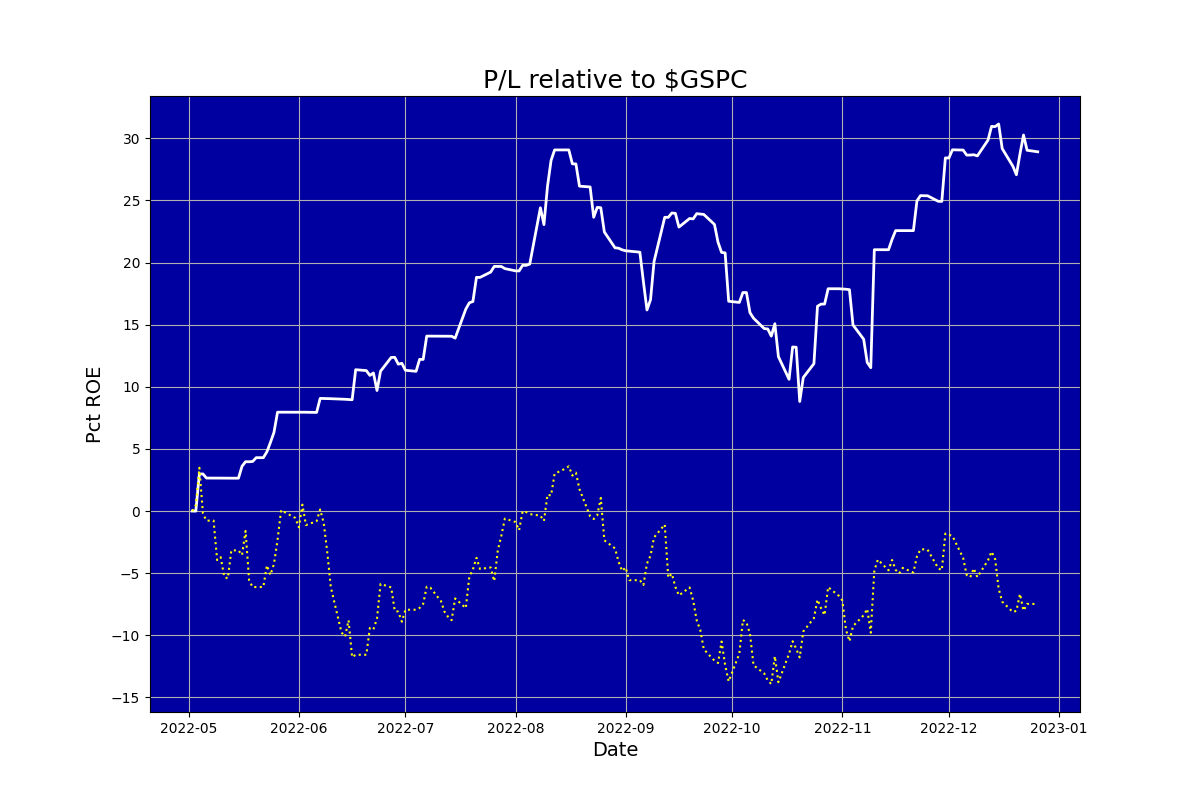
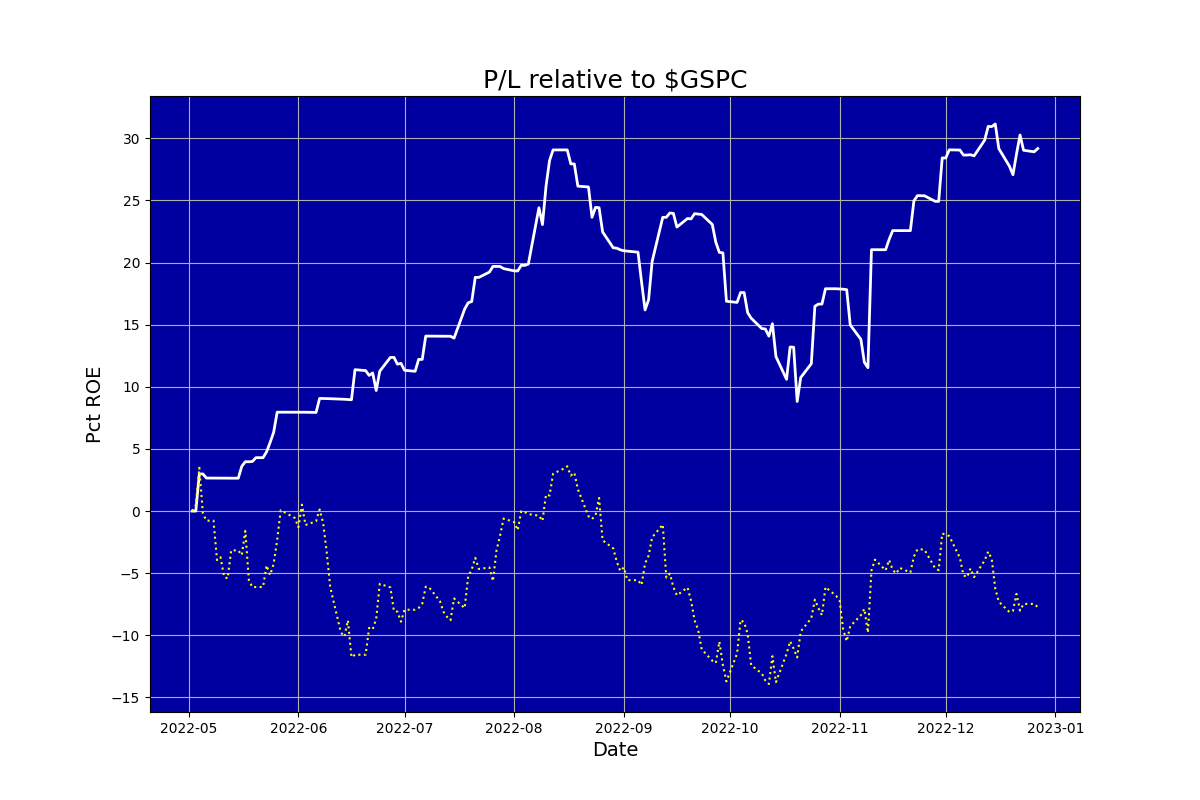
Updated

diff --git a/ig_report.html b/ig_report.html
@@ -1,1 +1,1 @@
-<html><body><center><h1>Auriel (never knowingly overbought)</h1></center><table cols=2><tr><td><img src=ig_pl.png></td><td><table cols=2><tr><td colspan=2><b><br>Snapshot</b></td></tr><tr><td>Last updated:&nbsp;&nbsp;&nbsp;</td><td>2022-12-26 15:56</td></tr><tr><td>Margin:&nbsp;&nbsp;&nbsp;</td><td>0.34</td></tr><tr><td>Cushion:&nbsp;&nbsp;&nbsp;</td><td>-3313.23</td></tr><tr><td>Last closed trade:&nbsp;&nbsp;&nbsp;</td><td>2022-12-26</td></tr><tr><td colspan=2><b><br>Positions</b></td></tr><tr><td>Mean days to new high:&nbsp;&nbsp;&nbsp;</td><td>12.26</td></tr><tr><td colspan=2><b><br>Trades</b></td></tr><tr><td>Traded days:&nbsp;&nbsp;&nbsp;</td><td>173</td></tr><tr><td>Profitable days pct:&nbsp;&nbsp;&nbsp;</td><td>34.10</td></tr><tr><td>Days beat S&P pct:&nbsp;&nbsp;&nbsp;</td><td>58.18</td></tr><tr><td>Profitable months pct:&nbsp;&nbsp;&nbsp;</td><td>87.50</td></tr><tr><td colspan=2><b><br>Performance</b></td></tr><tr><td>Pct median monthly ROE:&nbsp;&nbsp;&nbsp;</td><td>2.53</td></tr><tr><td>Pct annualised ROE:&nbsp;&nbsp;&nbsp;</td><td>38.61</td></tr><tr><td colspan=2><b><br>Risk</b></td></tr><tr><td>Volatility pct:&nbsp;&nbsp;&nbsp;</td><td>19.64</td></tr><tr><td>Benchmark volatility pct:&nbsp;&nbsp;&nbsp;</td><td>25.14</td></tr><tr><td>Sharpe ratio (RFR 5.0%):&nbsp;&nbsp;&nbsp;</td><td>1.81</td></tr><tr><td>Sortino ratio (RFR 5.0%):&nbsp;&nbsp;&nbsp;</td><td>2.98</td></tr><tr><td>Calmar ratio:&nbsp;&nbsp;&nbsp;</td><td>1.91</td></tr><tr><td>Worst drawdown pct:&nbsp;&nbsp;&nbsp;</td><td>-0.20</td></tr><tr><td>Recovery days from worst drawdown:&nbsp;&nbsp;&nbsp;</td><td>31.00</td></tr><tr><td>Beat benchmark +ve periods pct:&nbsp;&nbsp;&nbsp;</td><td>80.51</td></tr><tr><td>Beat benchmark -ve periods pct:&nbsp;&nbsp;&nbsp;</td><td>88.97</td></tr><tr><td>Correlation with benchmark:&nbsp;&nbsp;&nbsp;</td><td>0.40</td></tr></table></td></tr></table></body></html>
+<html><body><center><h1>Auriel (never knowingly overbought)</h1></center><table cols=2><tr><td><img src=ig_pl.png></td><td><table cols=2><tr><td colspan=2><b><br>Snapshot</b></td></tr><tr><td>Last updated:&nbsp;&nbsp;&nbsp;</td><td>2022-12-27 15:57</td></tr><tr><td>Margin:&nbsp;&nbsp;&nbsp;</td><td>0.30</td></tr><tr><td>Cushion:&nbsp;&nbsp;&nbsp;</td><td>-3539.98</td></tr><tr><td>Last closed trade:&nbsp;&nbsp;&nbsp;</td><td>2022-12-27</td></tr><tr><td colspan=2><b><br>Positions</b></td></tr><tr><td>Mean days to new high:&nbsp;&nbsp;&nbsp;</td><td>12.21</td></tr><tr><td colspan=2><b><br>Trades</b></td></tr><tr><td>Traded days:&nbsp;&nbsp;&nbsp;</td><td>174</td></tr><tr><td>Profitable days pct:&nbsp;&nbsp;&nbsp;</td><td>34.48</td></tr><tr><td>Days beat S&P pct:&nbsp;&nbsp;&nbsp;</td><td>58.43</td></tr><tr><td>Profitable months pct:&nbsp;&nbsp;&nbsp;</td><td>87.50</td></tr><tr><td colspan=2><b><br>Performance</b></td></tr><tr><td>Pct median monthly ROE:&nbsp;&nbsp;&nbsp;</td><td>2.53</td></tr><tr><td>Pct annualised ROE:&nbsp;&nbsp;&nbsp;</td><td>38.67</td></tr><tr><td colspan=2><b><br>Risk</b></td></tr><tr><td>Volatility pct:&nbsp;&nbsp;&nbsp;</td><td>19.58</td></tr><tr><td>Benchmark volatility pct:&nbsp;&nbsp;&nbsp;</td><td>25.04</td></tr><tr><td>Sharpe ratio (RFR 5.0%):&nbsp;&nbsp;&nbsp;</td><td>1.81</td></tr><tr><td>Sortino ratio (RFR 5.0%):&nbsp;&nbsp;&nbsp;</td><td>2.98</td></tr><tr><td>Calmar ratio:&nbsp;&nbsp;&nbsp;</td><td>1.91</td></tr><tr><td>Worst drawdown pct:&nbsp;&nbsp;&nbsp;</td><td>-0.20</td></tr><tr><td>Recovery days from worst drawdown:&nbsp;&nbsp;&nbsp;</td><td>31.00</td></tr><tr><td>Beat benchmark +ve periods pct:&nbsp;&nbsp;&nbsp;</td><td>80.66</td></tr><tr><td>Beat benchmark -ve periods pct:&nbsp;&nbsp;&nbsp;</td><td>89.11</td></tr><tr><td>Correlation with benchmark:&nbsp;&nbsp;&nbsp;</td><td>0.41</td></tr></table></td></tr></table></body></html>
